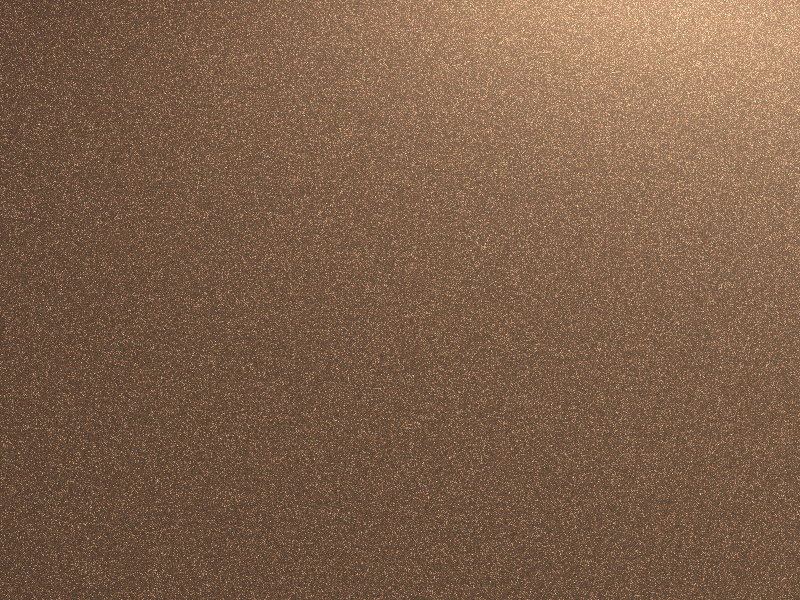
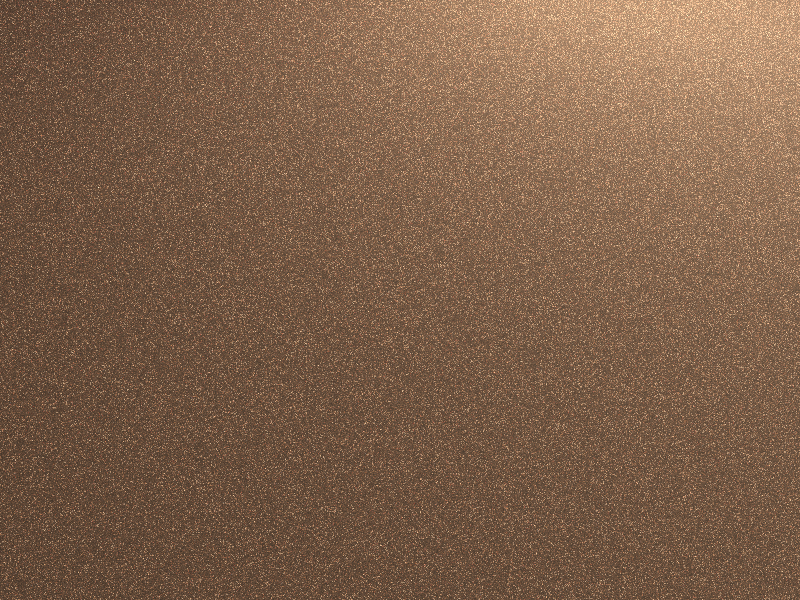
Refresh 800x600 screenshots with current binary (verified avg RGB matches README)

diff --git a/PROGRESS.md b/PROGRESS.md
@@ -98,3 +98,14 @@
   avg 91.2/81.9/68.4 (not black), 2.88 Mrays/s, keep 0.8%.
 - 4× 800×600 PNGs re-validated (`file`: 800×600 RGB); working tree clean,
   `origin/master` up to date; tagged `v1.4-verify` and pushed tags.
+
+## 2026-09-21 — Refresh screenshots with current binary
+- `make clean && make` warning-free; smoke test 200×150/4spp/train200:
+  avg 80.3/255 (not black), 3.16 Mrays/s, keep 0.8%.
+- Re-rendered all 4 scenes (800×600, 16 spp, train 1500) with the current
+  binary: cornell 23.3s/2.43 Mrays/s/keep 0.1% (3051 alive), bedroom
+  22.4s/2.51, dining 27.4s/1.92, staircase 21.7s/2.51; `convert`ed PPM→PNG,
+  all PNG headers valid (800×600 RGB).
+- Avg RGB matches README results table exactly (cornell 98/89/75, bedroom
+  126/96/74, dining 207/185/161, staircase 134/134/150); no code or README
+  changes needed.
